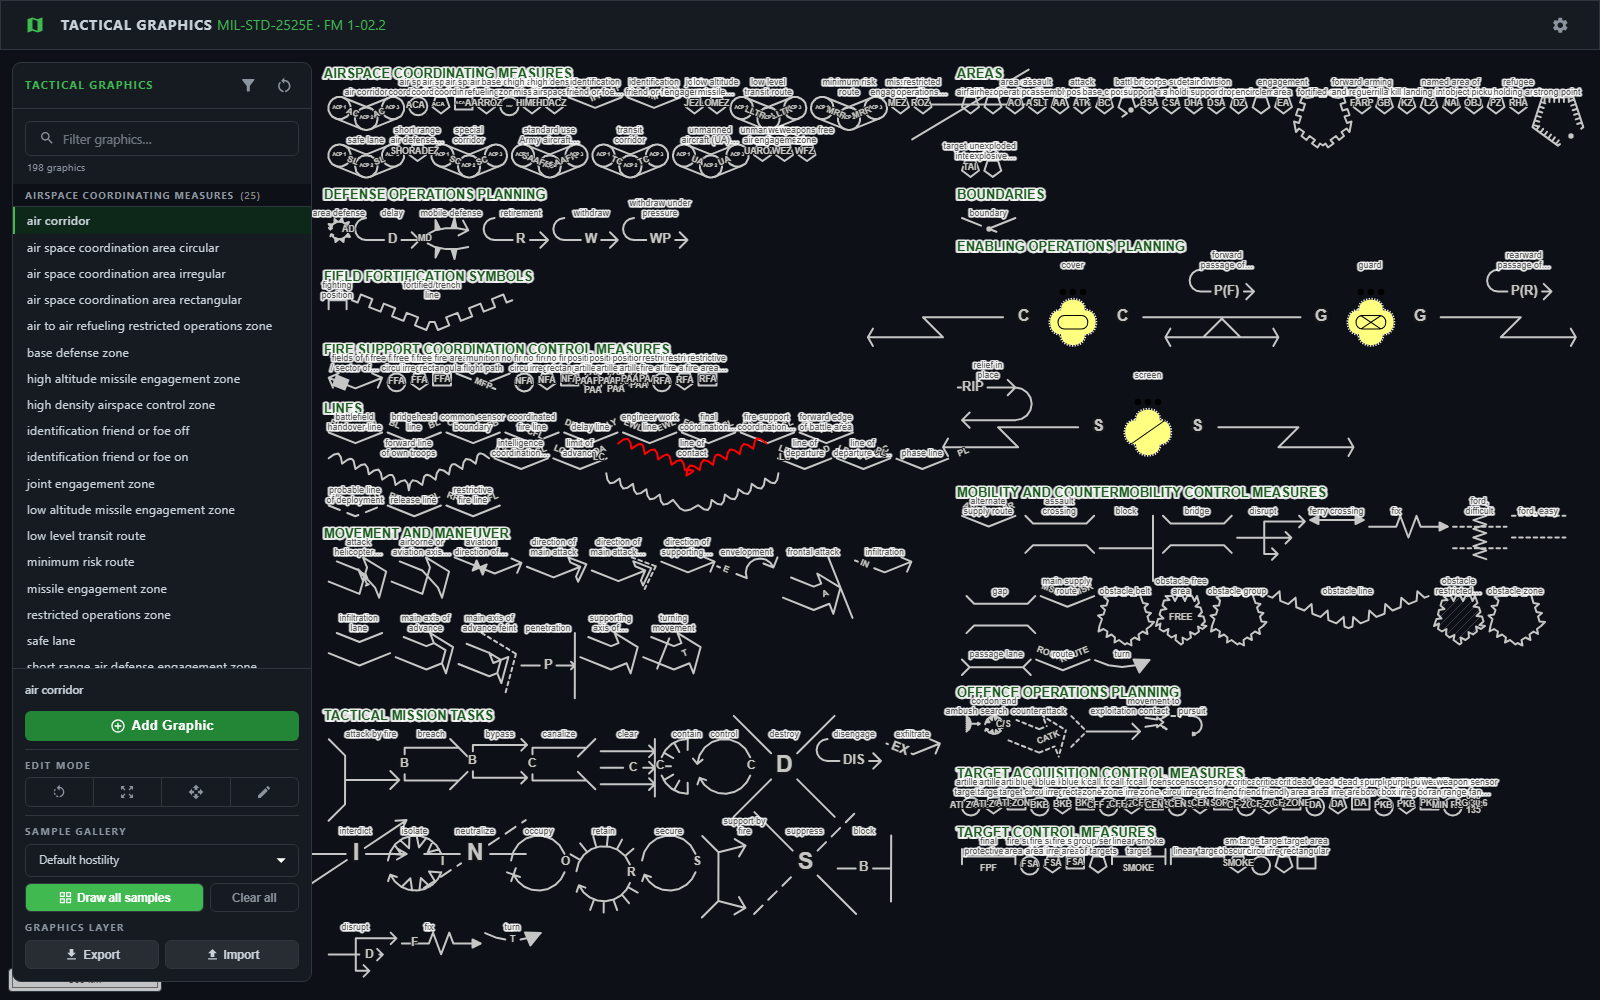
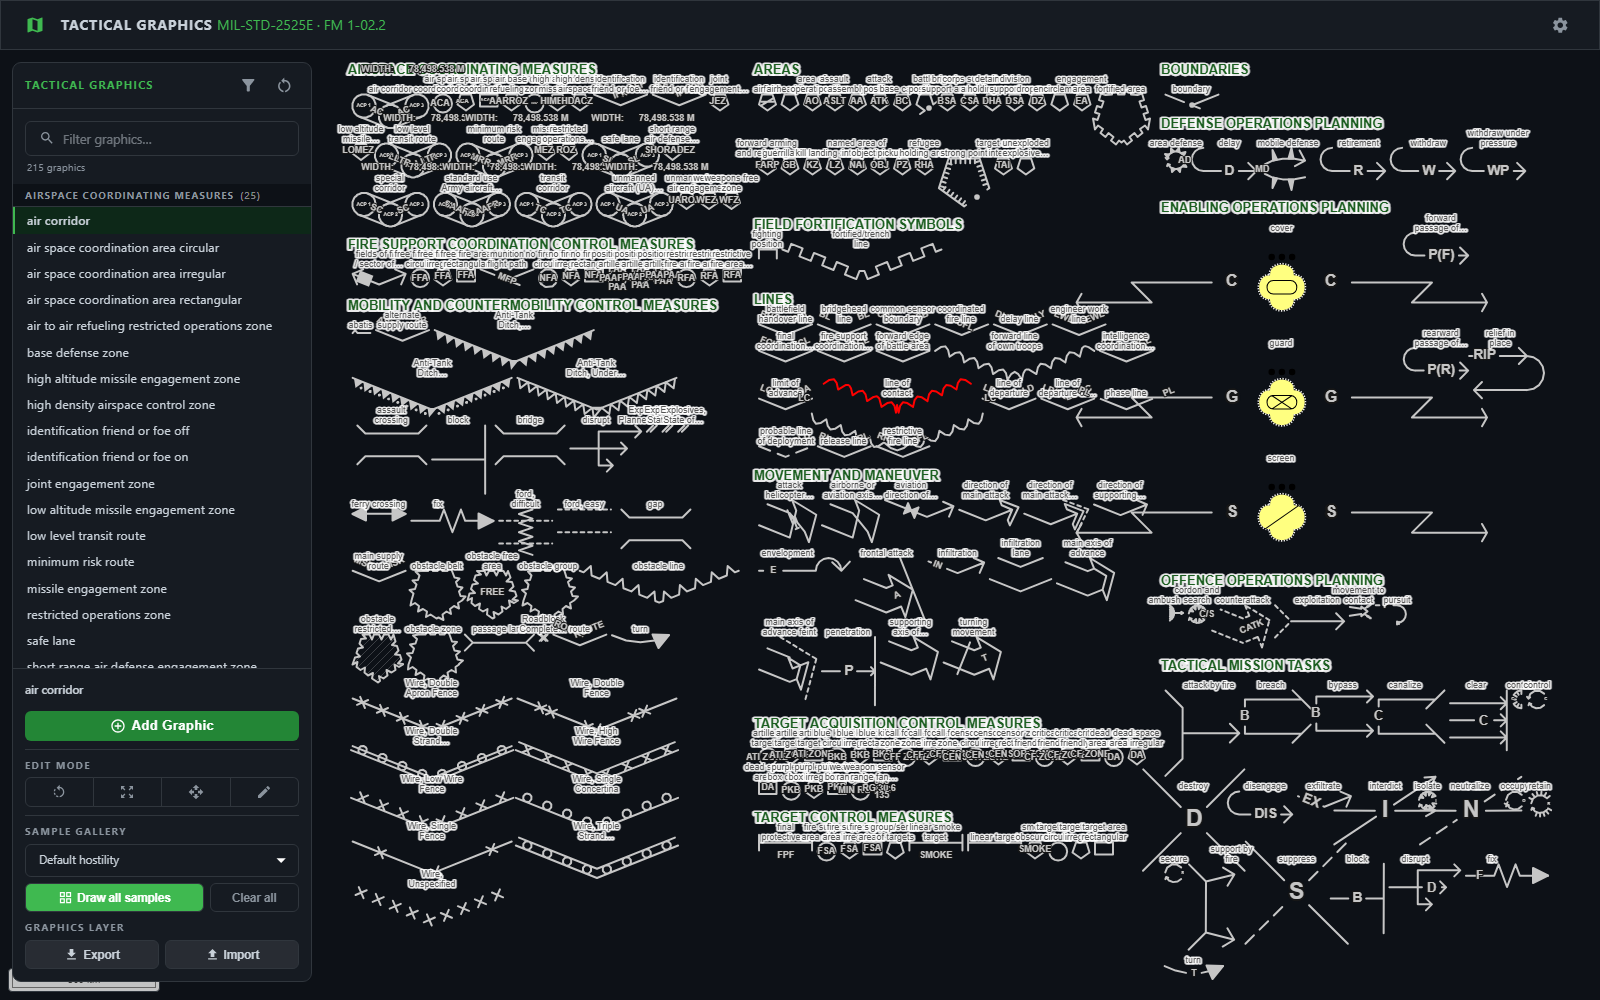
Put the new graphics in the sample gallery and recapture the image
All 16 land in 'draw all samples' - 214 proven. gen-proven-graphics.py needed
one OVERRIDES entry, since the tracker spells out 'with anti-tank mines'
where the enum shortens it; the script refuses to write anything when a row
matches no enum member, so an unmapped row leaves the old file in place
looking current rather than half-regenerating.

docs/images/sample-gallery.png recaptured: 1156 features.

diff --git a/src/components/openlayers/provenGraphics.ts b/src/components/openlayers/provenGraphics.ts
@@ -15,6 +15,9 @@ export const PROVEN_GRAPHICS: TacticalGraphicName[] = [
     TacticalGraphicName.AirheadLine,
     TacticalGraphicName.AlternateSupplyRoute,
     TacticalGraphicName.Ambush,
+    TacticalGraphicName.AntiTankDitchCompleted,
+    TacticalGraphicName.AntiTankDitchReinforcedWithMines,
+    TacticalGraphicName.AntiTankDitchUnderConstruction,
     TacticalGraphicName.AreaDefense,
     TacticalGraphicName.AreaOfOperations,
     TacticalGraphicName.ArtilleryTargetIntelligenceZoneCircular,
@@ -81,6 +84,9 @@ export const PROVEN_GRAPHICS: TacticalGraphicName[] = [
     TacticalGraphicName.Envelopment,
     TacticalGraphicName.Exfiltrate,
     TacticalGraphicName.Exploitation,
+    TacticalGraphicName.ExplosivesPlannedStateOfReadiness,
+    TacticalGraphicName.ExplosivesStateOfReadiness1Safe,
+    TacticalGraphicName.ExplosivesStateOfReadiness2ArmedButPassable,
     TacticalGraphicName.FerryCrossing,
     TacticalGraphicName.FieldsOfFire,
     TacticalGraphicName.FightingPosition,
@@ -171,6 +177,7 @@ export const PROVEN_GRAPHICS: TacticalGraphicName[] = [
     TacticalGraphicName.RestrictiveFireLine,
     TacticalGraphicName.Retain,
     TacticalGraphicName.Retirement,
+    TacticalGraphicName.RoadblockCompleteExecuted,
     TacticalGraphicName.Route,
     TacticalGraphicName.SafeLane,
     TacticalGraphicName.Screen,
